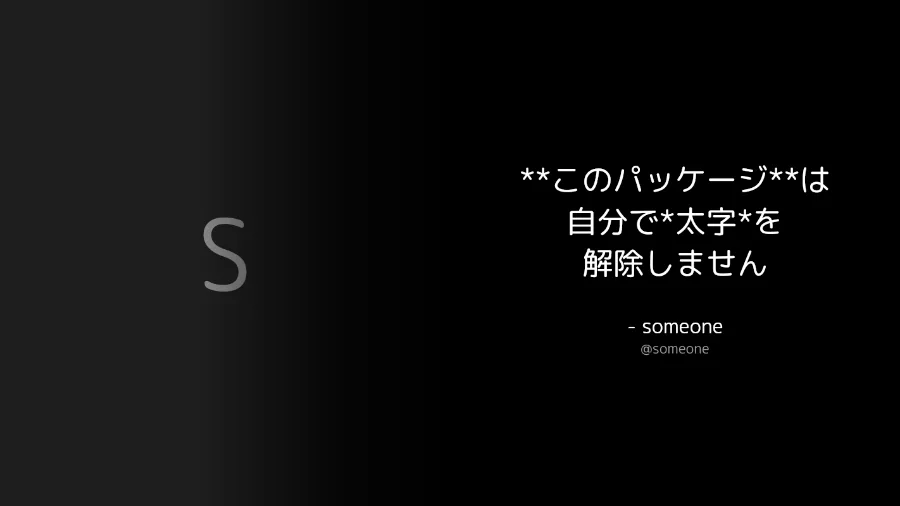
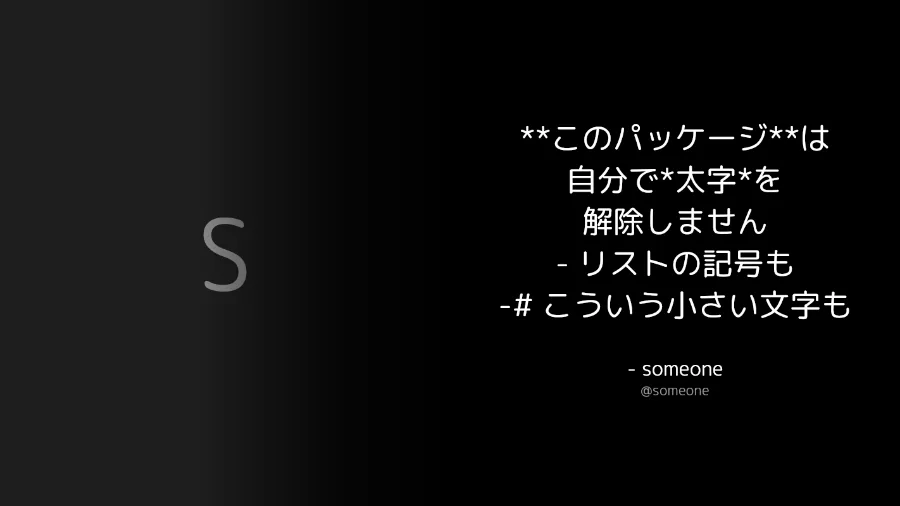
feat(text): strip Discord subtext and list markers too
stripMarkdown() handled bold/italic/underline/strikethrough/spoilers/
code/quotes/headers but not `-# subtext` or `-`/`*`/`1.` list markers,
both real Discord markdown. Added both, keeping list indentation so
nested items still read as nested.

Considered swapping to the `remove-markdown` package instead of
extending the hand-rolled pass, but it's CommonMark rather than
Discord's dialect: it reads `__x__` as bold instead of underline, and
strips the URL out of `[text](url)`, which this function deliberately
leaves alone since Discord never rendered it as a link to begin with.
Recorded in CONTRIBUTING.md's dependency table.

Changed region(s): [[0.56, 0.3261, 0.9333, 0.8004], [0.56, 0.2372, 0.9333, 0.2964]]

diff --git a/src/text/markdown.ts b/src/text/markdown.ts
@@ -8,11 +8,18 @@
  * on any text.
  *
  * Handles what Discord message content actually renders: bold, italic,
- * underline, strikethrough, spoilers, inline code, code blocks, block quotes
- * and headers. A backslash escapes the character after it, same as Discord.
- * `[text](url)`-style links are left alone — Discord does not render those as
- * links in message content, so stripping them would change what the message
- * actually said.
+ * underline, strikethrough, spoilers, inline code, code blocks, block quotes,
+ * headers, subtext and list markers. A backslash escapes the character after
+ * it, same as Discord. `[text](url)`-style links are left alone — Discord
+ * does not render those as links in message content, so stripping them would
+ * change what the message actually said.
+ *
+ * This is a hand-rolled, Discord-flavoured pass rather than a generic
+ * Markdown/CommonMark stripper on purpose: Discord's dialect disagrees with
+ * CommonMark in ways a generic library gets wrong for this use case —
+ * `__x__` is underline here, not bold, `[text](url)` must survive with its
+ * brackets intact, and there is no CommonMark equivalent of `||spoiler||` or
+ * `-# subtext` at all.
  *
  * Markers of the same kind nest fine (`**bold _and italic_**`); the same
  * character used for two different constructs at once (`**bold *and*
@@ -36,6 +43,19 @@ export function stripMarkdown(text: string): string {
   out = out.replace(/^>\s?/gm, '')
 
   out = out.replace(/^#{1,3}\s+/gm, '')
+
+  // A line starting with `-# ` (subtext: small, muted text). The `#` must sit
+  // right against the dash — no space between them — which is also what
+  // keeps this from ever matching a `-` bullet.
+  out = out.replace(/^-#\s+/gm, '')
+
+  // Unordered (`-`/`*`) and ordered (`1.`) list markers. Only the marker
+  // goes; leading indentation is kept so a nested item still reads as
+  // nested. Both require whitespace right after the marker, same as Discord
+  // itself, which is what keeps `*bold*` and `1.5` from being mistaken for
+  // list items.
+  out = out.replace(/^( *)[*-]( +)/gm, '$1')
+  out = out.replace(/^( *)\d+\.( +)/gm, '$1')
 
   // Longest marker first, so *** isn't read as * immediately followed by **.
   out = out.replace(/\*\*\*([^*]+)\*\*\*/g, '$1')

diff --git a/src/text/markdown.test.ts b/src/text/markdown.test.ts
@@ -85,6 +85,40 @@ describe('stripMarkdown', () => {
     expect(stripMarkdown('### Header')).toBe('Header')
   })
 
+  it('strips subtext', () => {
+    expect(stripMarkdown('-# fine print')).toBe('fine print')
+  })
+
+  it('does not mistake subtext for a bulleted list item', () => {
+    // The list marker regex requires whitespace right after `-`; `-#` never
+    // has that, so it must fall to the subtext pass instead.
+    expect(stripMarkdown('-# not a list')).toBe('not a list')
+  })
+
+  describe('lists', () => {
+    it('strips an unordered list marker, either character', () => {
+      expect(stripMarkdown('- item')).toBe('item')
+      expect(stripMarkdown('* item')).toBe('item')
+    })
+
+    it('strips an ordered list marker', () => {
+      expect(stripMarkdown('1. first')).toBe('first')
+      expect(stripMarkdown('12. twelfth')).toBe('twelfth')
+    })
+
+    it('keeps indentation, so a nested item still reads as nested', () => {
+      expect(stripMarkdown('- top\n  - nested')).toBe('top\n  nested')
+    })
+
+    it('leaves a number followed by a decimal alone', () => {
+      expect(stripMarkdown('3.14 is pi')).toBe('3.14 is pi')
+    })
+
+    it('leaves italics starting a line alone — no space after the marker', () => {
+      expect(stripMarkdown('*emphasis* at line start')).toBe('emphasis at line start')
+    })
+  })
+
   it('nests markers of different kinds', () => {
     expect(stripMarkdown('**bold _and italic_**')).toBe('bold and italic')
   })

diff --git a/scripts/visual-check.js b/scripts/visual-check.js
@@ -469,19 +469,24 @@ add(
 add('11-discord', 'from a minimal message (no avatar)', () =>
   new MiQ().setFromMessage({ content: text.ja, author: { username: 'someone' } }),
 )
+const markdownSample = [
+  '**このパッケージ**は自分で*太字*を解除しません',
+  '- リストの記号も',
+  '-# こういう小さい文字も',
+].join('\n')
 add(
   '11-discord',
   'markdown quoted as written (default)',
   () =>
     new MiQ().setFromMessage({
-      content: '**このパッケージ**は自分で*太字*を解除しません',
+      content: markdownSample,
       author: { username: 'someone' },
     }),
   { note: 'stripMarkdown defaults to false — compare with the next card' },
 )
 add('11-discord', 'stripMarkdown: true', () =>
   new MiQ().setFromMessage(
-    { content: '**このパッケージ**は自分で*太字*を解除しません', author: { username: 'someone' } },
+    { content: markdownSample, author: { username: 'someone' } },
     { stripMarkdown: true },
   ),
 )

diff --git a/README.md b/README.md
@@ -126,10 +126,16 @@ stripMarkdown('**bold**, *italic*, ~~strike~~, `code`') // → 'bold, italic, st
 
 It handles what Discord message content actually renders — bold, italic,
 underline, strikethrough, spoilers, code (inline and fenced), block quotes
-(`>` at the start of a line, same as Discord) and headers — and honours a
-backslash escape. A code span stays literal, so `` `**x**` `` keeps its
-asterisks. `[text](url)`-style links are left alone, since Discord does not
-render those as links in message content either.
+(`>` at the start of a line, same as Discord), headers, subtext (`-# `) and
+list markers (`-`, `*`, `1.`) — and honours a backslash escape. A code span
+stays literal, so `` `**x**` `` keeps its asterisks. `[text](url)`-style links
+are left alone, since Discord does not render those as links in message
+content either.
+
+This is Discord's own dialect, not CommonMark — a generic Markdown stripper
+gets real things wrong here, like reading `__x__` as bold instead of
+underline, or deleting the URL out of a `[text](url)` that Discord never
+turned into a link in the first place.
 
 ### Tokens
 

diff --git a/CONTRIBUTING.md b/CONTRIBUTING.md
@@ -114,6 +114,7 @@ What has been turned down, and why, so it need not be re-litigated:
 | `env-paths` | Returns different paths from the ones README documents, so upgrading would orphan every existing font cache. |
 | `css-tree` / `postcss` | 1.9MB / 327K to read three fields out of one API's machine-generated `@font-face` blocks. |
 | `discord-markdown`, `simple-markdown` | Last published 2021; pull in `highlight.js` and `@types/react`. |
+| `remove-markdown` | CommonMark, not Discord's dialect: reads `__x__` as bold instead of underline, and strips the URL out of `[text](url)`, which `stripMarkdown()` deliberately leaves alone since Discord never turned it into a link to begin with. |
 
 **An ESM-only dependency must go in `deps.alwaysBundle`** in
 `tsdown.config.ts`, or the CJS build emits a `require()` of it and throws for
